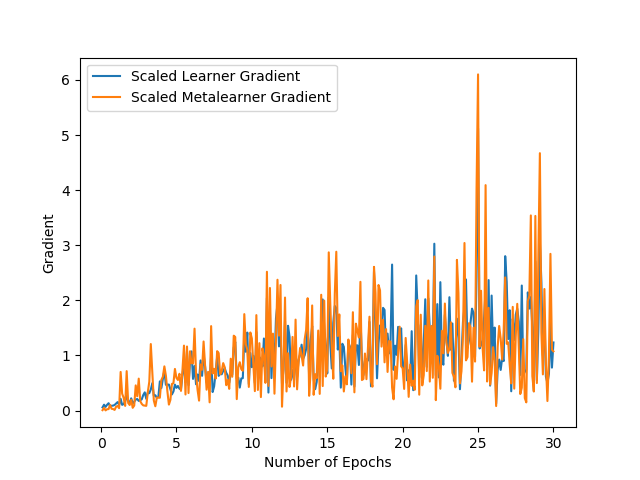
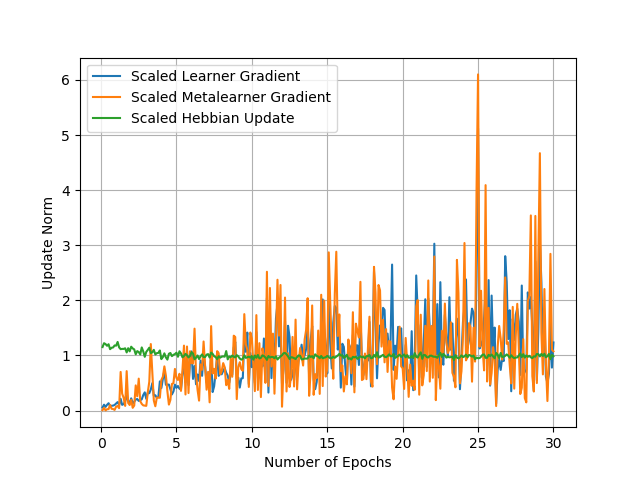
changed hypers

diff --git a/experiment_1_epochs/visualize_experiment_1.py b/experiment_1_epochs/visualize_experiment_1.py
@@ -32,26 +32,23 @@ result_df = pd.DataFrame(best_result)
 result_df['epoch'] = result_df['batch_num'] * 10 / 60000
 result_df['scaled_learner_gradient_norm'] = result_df['learner_gradient_norm'] / result_df['learner_gradient_norm'].mean()
 result_df['scaled_metalearner_gradient_norm'] = result_df['metalearner_gradient_norm'] / result_df['metalearner_gradient_norm'].mean()
+result_df['scaled_hebbian_update_norm'] = result_df['hebbian_update_norm'] / result_df['hebbian_update_norm'].mean()
 plt.plot(result_df['epoch'], result_df['scaled_learner_gradient_norm'], label='Scaled Learner Gradient')
 plt.plot(result_df['epoch'], result_df['scaled_metalearner_gradient_norm'], label='Scaled Metalearner Gradient')
+plt.plot(result_df['epoch'], result_df['scaled_hebbian_update_norm'], label='Scaled Hebbian Update')
 plt.xlabel('Number of Epochs')
-plt.ylabel('Gradient')
+plt.ylabel('Update Norm')
 plt.legend()
-
+plt.grid()
 plt.savefig(os.path.join(root_directory, dataset_name, 'result_images', 'experiment_1_gradient_comparison.png'))
 plt.show()
 plt.clf()
 
-
-#  VISUALIZATION 3: see if the metalearner outputs are related to the gradients
-best_result = results[(10 ** -4, 10 ** -10)]
-result_df = pd.DataFrame(best_result)
-result_df['epoch'] = result_df['batch_num'] * 10 / 60000
-plt.scatter(result_df['learner_gradient_norm'], result_df['hebbian_update_norm'], c=result_df['epoch'])
-plt.ylim((0, 0.00000002))
-plt.xlabel('Gradient Norm')
+plt.plot(result_df['epoch'], result_df['hebbian_update_norm'])
+plt.xlabel('Number of Epochs')
 plt.ylabel('Hebbian Update Norm')
 plt.legend()
-plt.savefig(os.path.join(root_directory, dataset_name, 'result_images', 'experiment_1_gradient_vs_Hebb.png'))
+plt.grid()
+plt.savefig(os.path.join(root_directory, dataset_name, 'result_images', 'experiment_1_hebbian_updates.png'))
 plt.show()
 plt.clf()

diff --git a/experiment_1_epochs/run_experiment_1.py b/experiment_1_epochs/run_experiment_1.py
@@ -17,13 +17,11 @@ def test_mllr_update_pair(mllr, update_rate):
 
 
 results = {(0, 0): control_frame.train_model(phi=30, theta=1, intermediate_accuracy=True, return_model=False)}
-# for metalearner_learning_rate in [10 ** (-4), 10 ** (-3), 10 ** (-2)]:
-#     for update_rate in [10 ** (-10), 10 ** (-8), 10 ** (-6)]:
-for metalearner_learning_rate in [10 ** (-5), 10 ** (-4)]:
-    for update_rate in [10 ** (-6), 10 ** (-5)]:
-        results[(metalearner_learning_rate, update_rate)] = test_mllr_update_pair(metalearner_learning_rate,
-                                                                                  update_rate)
+for metalearner_learning_rate in [10 ** (-5), 5 * 10 ** (-5), 10 ** (-4), 5 * 10 ** (-4), 10 ** (-3), 10 ** (-2)]:
+    for update_rate in [10 ** (-10), 10 ** (-9), 10 ** (-8), 10 ** (-7), 10 ** (-6), 10 ** (-5)]:
+        for iter in range(5):
+        # for metalearner_learning_rate in [10 ** (-5), 10 ** (-4)]:
+        #     for update_rate in [10 ** (-6), 10 ** (-5)]:
+            results[(metalearner_learning_rate, update_rate, iter)] = test_mllr_update_pair(metalearner_learning_rate,
+                                                                                      update_rate)
         pickle.dump(results, open(experiment_1_data_path, 'wb'))
-
-
-
